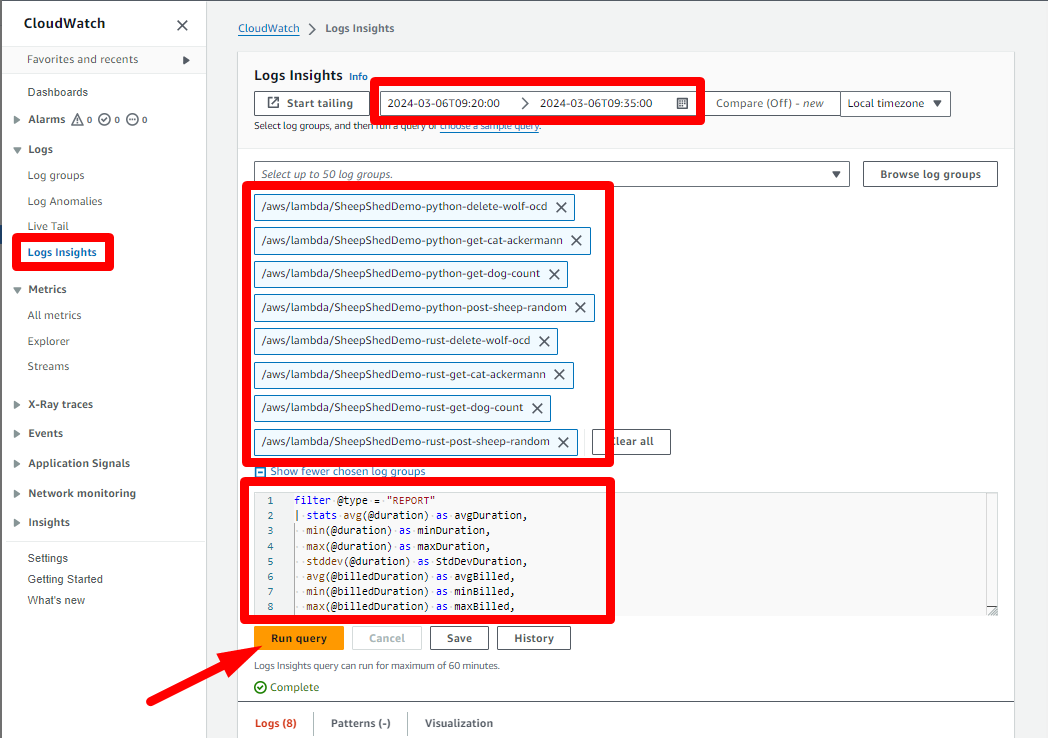
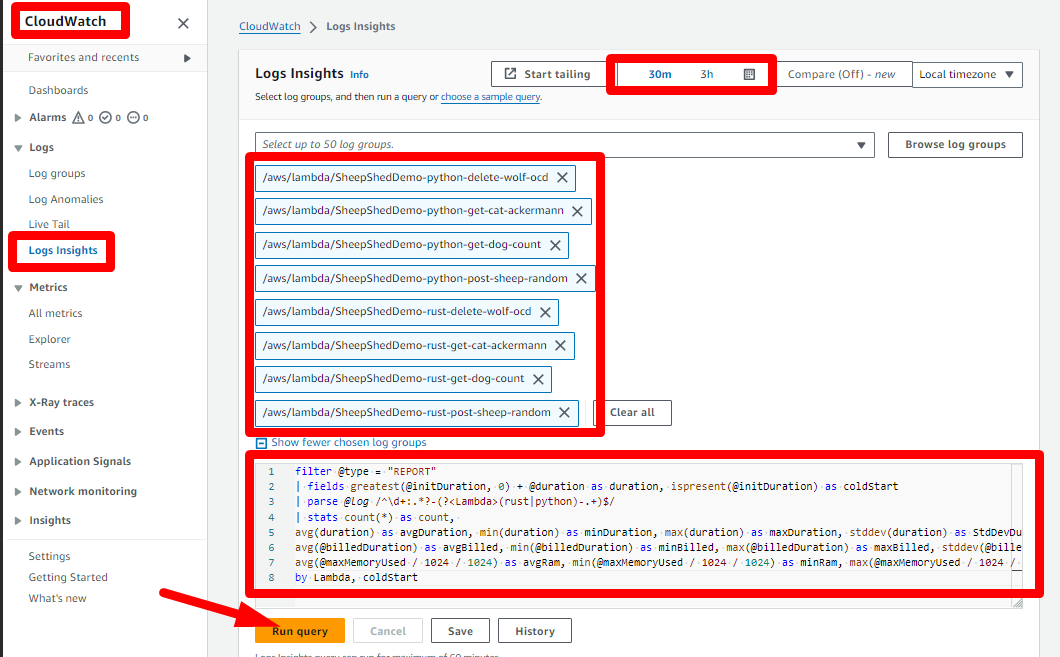
Updating README.md with the latest Log Insights query and results

diff --git a/README.md b/README.md
@@ -237,27 +237,27 @@ It will execute a bunch of API calls (~4k/API) and typically takes ~10minutes to
 For reference, here is an execution report with my APIs deployed in the Paris region (as I live there...):
 ```sh
 ./execute_default_benches.sh \
---rust-api https://r97srvphyb.execute-api.eu-west-3.amazonaws.com/v1 \
---python-api https://qr19fdky53.execute-api.eu-west-3.amazonaws.com/v1
+--rust-api https://iv32tbdyt0.execute-api.eu-west-3.amazonaws.com/v1/ \
+--python-api https://92jyb0j7c8.execute-api.eu-west-3.amazonaws.com/v1/
 ```
 It outputs:
 ```
-./invoke_cat.sh https://qr19fdky53.execute-api.eu-west-3.amazonaws.com/v1
-Calls took 59593ms
-./invoke_cat.sh https://r97srvphyb.execute-api.eu-west-3.amazonaws.com/v1
-Calls took 7394ms
-./insert_sheeps.sh https://qr19fdky53.execute-api.eu-west-3.amazonaws.com/v1
-Insertion took 10050ms
-./insert_sheeps.sh https://r97srvphyb.execute-api.eu-west-3.amazonaws.com/v1
-Insertion took 6578ms
-./invoke_dog.sh https://qr19fdky53.execute-api.eu-west-3.amazonaws.com/v1
-Calls took 10791ms
-./invoke_dog.sh https://r97srvphyb.execute-api.eu-west-3.amazonaws.com/v1
-Calls took 7345ms
-./invoke_wolf.sh https://qr19fdky53.execute-api.eu-west-3.amazonaws.com/v1
-Calls took 245703ms
-./invoke_wolf.sh https://r97srvphyb.execute-api.eu-west-3.amazonaws.com/v1
-Calls took 6835ms
+./invoke_cat.sh https://92jyb0j7c8.execute-api.eu-west-3.amazonaws.com/v1/
+Calls took 59432ms
+./invoke_cat.sh https://iv32tbdyt0.execute-api.eu-west-3.amazonaws.com/v1/
+Calls took 7436ms
+./insert_sheeps.sh https://92jyb0j7c8.execute-api.eu-west-3.amazonaws.com/v1/
+Insertion took 10227ms
+./insert_sheeps.sh https://iv32tbdyt0.execute-api.eu-west-3.amazonaws.com/v1/
+Insertion took 8363ms
+./invoke_dog.sh https://92jyb0j7c8.execute-api.eu-west-3.amazonaws.com/v1/
+Calls took 11162ms
+./invoke_dog.sh https://iv32tbdyt0.execute-api.eu-west-3.amazonaws.com/v1/
+Calls took 8823ms
+./invoke_wolf.sh https://92jyb0j7c8.execute-api.eu-west-3.amazonaws.com/v1/
+Calls took 216667ms
+./invoke_wolf.sh https://iv32tbdyt0.execute-api.eu-west-3.amazonaws.com/v1/
+Calls took 15917ms
 Done.
 ```
 
@@ -290,26 +290,38 @@ Go to the CloudWatch Log Insights console, set the date/time range appropriately
 Here is the query:
 ```
 filter @type = "REPORT"
+| fields greatest(@initDuration, 0) + @duration as duration, ispresent(@initDuration) as coldStart
 | parse @log /^\d+:.*?-(?<Lambda>(rust|python)-.+)$/
-| stats avg(@duration) as avgDuration, min(@duration) as minDuration, max(@duration) as maxDuration, stddev(@duration) as StdDevDuration,
+| stats count(*) as count, 
+avg(duration) as avgDuration, min(duration) as minDuration, max(duration) as maxDuration, stddev(duration) as StdDevDuration,
 avg(@billedDuration) as avgBilled, min(@billedDuration) as minBilled, max(@billedDuration) as maxBilled, stddev(@billedDuration) as StdDevBilled,
 avg(@maxMemoryUsed / 1024 / 1024) as avgRam, min(@maxMemoryUsed / 1024 / 1024) as minRam, max(@maxMemoryUsed / 1024 / 1024) as maxRam, stddev(@maxMemoryUsed / 1024 / 1024) as StdDevRam
-by Lambda
+by Lambda, coldStart
 ```
 
-And here are the results yielded by my tests (Duration: ms, Billed: ms, Ram: MB):
+This query gives you the average, min, max and standard deviation for 3 metrics: duration, billed duration and memory used. Result are grouped by lambda function and separated between coldstart and non-coldstart runs.
+
+And here are the results yielded by my tests (Duration: ms, Billed: ms, Ram: MB; StdDev removed for bievety):
 
 ---
-| Lambda |-| avgDuration | minDuration | maxDuration | StdDevDuration |-| avgBilled | minBilled | maxBilled | StdDevBilled |-| avgRam | minRam | maxRam | StdDevRam |
-| --- |-| --- | --- | --- | --- |-| --- | --- | --- | --- |-| --- | --- | --- | --- |
-| rust-delete-wolf-ocd |-| 98.4841 | 42.28 | 252.96 | 42.7561 |-| 103.265 | 43 | 316 | 56.47 |-| 24.2996 | 20.9808 | 28.6102 | 1.3404 |
-| python-delete-wolf-ocd |-| 5192.4109 | 2327.6 | 9604.31 | 1999.5336 |-| 5192.9096 | 2328 | 9605 | 1999.5262 |-| 89.3961 | 78.2013 | 102.9968 | 3.9763 |
-| rust-get-dog-count |-| 21.8582 | 12.24 | 107.07 | 15.031 |-| 25.204 | 13 | 170 | 27.309 |-| 24.1432 | 20.9808 | 28.6102 | 1.9002 |
-| python-get-dog-count |-| 801.4529 | 594.16 | 2317.02 | 450.1134 |-| 801.962 | 595 | 2318 | 450.1113 |-| 76.4656 | 73.4329 | 80.1086 | 1.3878 |
-| rust-post-sheep-random |-| 11.797 | 4.59 | 96.42 | 12.2931 |-| 14.274 | 5 | 158 | 22.6726 |-| 23.3488 | 20.0272 | 25.7492 | 1.3674 |
-| python-post-sheep-random |-| 753.5861 | 527.47 | 2226.41 | 458.3725 |-| 754.077 | 528 | 2227 | 458.3716 |-| 76.2463 | 59.1278 | 81.0623 | 2.1591 |
-| rust-get-cat-ackermann |-| 127.2334 | 67.19 | 785.56 | 24.9678 |-| 129.12 | 92 | 786 | 25.7485 |-| 16.1037 | 14.3051 | 20.9808 | 1.4747 |
-| python-get-cat-ackermann |-| 5768.7616 | 5662.51 | 6071.9 | 34.6346 |-| 5769.25 | 5663 | 6072 | 34.6466 |-| 33.3643 | 31.4713 | 40.0543 | 1.7757 |
+| Lambda |-| coldStart | count |-| avgDuration | minDuration | maxDuration |-| avgBilled | minBilled | maxBilled |-| avgRam | minRam | maxRam |
+| --- |-| --- | --- |-| --- | --- | --- |-| --- | --- | --- |-| --- | --- | --- |
+| rust-delete-wolf-ocd |-| no | 1238 |-| 88.6358 | 32.82 | 215.54 |-| 89.147 | 33 | 216 |-| 27.35 | 21.9345 | 30.5176 |
+| rust-delete-wolf-ocd |-| yes | 70 |-| 317.8614 | 294.94 | 342.62 |-| 318.3429 | 295 | 343 |-| 23.5285 | 21.9345 | 25.7492 |
+| python-delete-wolf-ocd |-| no | 2374 |-| 4788.6655 | 2441.47 | 7526.53 |-| 4789.1592 | 2442 | 7527 |-| 90.7316 | 82.016 | 100.1358 |
+| python-delete-wolf-ocd |-| yes | 105 |-| 9181.7377 | 4396.71 | 9578.59 |-| 8914.0762 | 4135 | 9305 |-| 79.927 | 78.2013 | 84.877 |
+| rust-get-dog-count |-| no | 964 |-| 20.0259 | 12.26 | 64.98 |-| 20.5 | 13 | 65 |-| 25.0696 | 20.9808 | 28.6102 |
+| rust-get-dog-count |-| yes | 36 |-| 146.7453 | 122.48 | 182.16 |-| 147.2778 | 123 | 183 |-| 22.8352 | 20.9808 | 26.7029 |
+| python-get-dog-count |-| no | 900 |-| 643.4647 | 583.33 | 733.75 |-| 643.9767 | 584 | 734 |-| 77.2656 | 74.3866 | 82.016 |
+| python-get-dog-count |-| yes | 100 |-| 2363.8496 | 2286.13 | 2627.62 |-| 2108.63 | 2033 | 2359 |-| 75.3021 | 74.3866 | 78.2013 |
+| rust-post-sheep-random |-| no | 955 |-| 9.5254 | 4.25 | 35.8 |-| 10 | 5 | 36 |-| 23.4085 | 20.9808 | 27.6566 |
+| rust-post-sheep-random |-| yes | 45 |-| 137.026 | 121.4 | 185.69 |-| 137.5111 | 122 | 186 |-| 21.9133 | 20.0272 | 26.7029 |
+| python-post-sheep-random |-| no | 900 |-| 590.7037 | 533.85 | 731.13 |-| 591.2133 | 534 | 732 |-| 76.8269 | 74.3866 | 82.016 |
+| python-post-sheep-random |-| yes | 100 |-| 2369.7038 | 2200.8 | 2522.84 |-| 2099.04 | 1942 | 2261 |-| 75.1877 | 73.4329 | 80.1086 |
+| rust-get-cat-ackermann |-| no | 954 |-| 127.1402 | 91.07 | 456.5 |-| 127.6342 | 92 | 457 |-| 16.3754 | 14.3051 | 20.9808 |
+| rust-get-cat-ackermann |-| yes | 46 |-| 159.0285 | 144.02 | 176.91 |-| 159.5435 | 145 | 177 |-| 15.0929 | 14.3051 | 20.0272 |
+| python-get-cat-ackermann |-| no | 896 |-| 5771.6155 | 5708.25 | 6035.09 |-| 5772.1138 | 5709 | 6036 |-| 33.6607 | 32.4249 | 39.1006 |
+| python-get-cat-ackermann |-| yes | 104 |-| 5855.8304 | 5807.61 | 6195.08 |-| 5776.8269 | 5735 | 6119 |-| 32.755 | 31.4713 | 35.2859 |
 ---
 
 Kind of speaks for itself, right?
